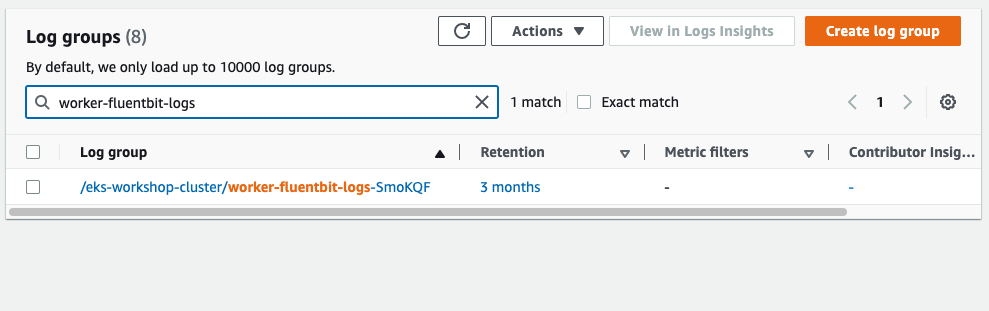
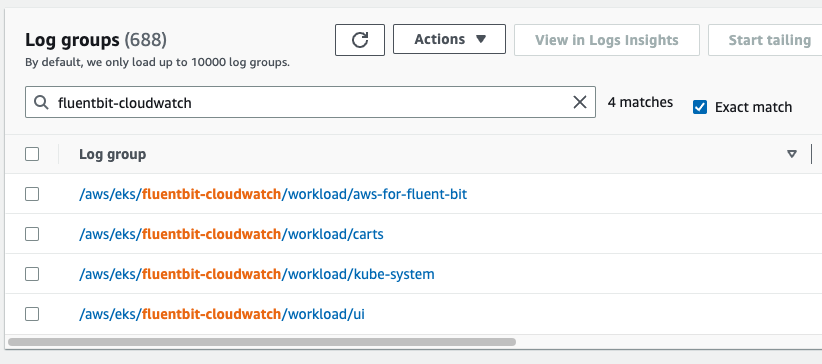
Update log group and log stream instructions for fluent bit lab

diff --git a/website/docs/observability/logging/pod-logging/fluent-bit-cloudwatch.md b/website/docs/observability/logging/pod-logging/fluent-bit-cloudwatch.md
@@ -5,38 +5,48 @@ sidebar_position: 40
 
 In this lab exercise, we'll see how to check the Kubernetes pod logs forwarded by the Fluent Bit agent deployed on each node to Amazon CloudWatch Logs. The deployed application components write logs to `stdout`, which are saved in the `/var/log/containers/*.log` path on each node.
 
-First, lets check that our checkout component is creating logs by directly using `kubectl logs`:
+First, lets recycle the pods for the `ui` component to make sure fresh logs are written since we enabled Fluent Bit:
 
 ```bash
-$ kubectl logs -n checkout deployment/checkout 
-[Nest] 1  - 11/23/2022, 12:00:14 AM     LOG [NestFactory] Starting Nest application...
-[Nest] 1  - 11/23/2022, 12:00:15 AM     LOG [InstanceLoader] PrometheusModule dependencies initialized +123ms
-[Nest] 1  - 11/23/2022, 12:00:15 AM     LOG [InstanceLoader] ConfigHostModule dependencies initialized +0ms
-[Nest] 1  - 11/23/2022, 12:00:15 AM     LOG [InstanceLoader] TerminusModule dependencies initialized +1ms
-[Nest] 1  - 11/23/2022, 12:00:15 AM     LOG [InstanceLoader] AppModule dependencies initialized +1ms
-[Nest] 1  - 11/23/2022, 12:00:15 AM     LOG [InstanceLoader] ConfigModule dependencies initialized +1ms
-[Nest] 1  - 11/23/2022, 12:00:15 AM     LOG [InstanceLoader] ConfigModule dependencies initialized +0ms
-[Nest] 1  - 11/23/2022, 12:00:15 AM     LOG [InstanceLoader] CheckoutModule dependencies initialized +3ms
-[Nest] 1  - 11/23/2022, 12:00:15 AM     LOG [RoutesResolver] AppController {/}: +423ms
-[Nest] 1  - 11/23/2022, 12:00:15 AM     LOG [RouterExplorer] Mapped {/health, GET} route +3ms
-[Nest] 1  - 11/23/2022, 12:00:15 AM     LOG [RoutesResolver] PrometheusController {/metrics}: +1ms
-[Nest] 1  - 11/23/2022, 12:00:15 AM     LOG [RouterExplorer] Mapped {/metrics, GET} route +1ms
-[Nest] 1  - 11/23/2022, 12:00:15 AM     LOG [RoutesResolver] CheckoutController {/checkout}: +1ms
-[Nest] 1  - 11/23/2022, 12:00:15 AM     LOG [RouterExplorer] Mapped {/checkout/:customerId, GET} route +1ms
-[Nest] 1  - 11/23/2022, 12:00:15 AM     LOG [RouterExplorer] Mapped {/checkout/:customerId/update, POST} route +1ms
-[Nest] 1  - 11/23/2022, 12:00:15 AM     LOG [RouterExplorer] Mapped {/checkout/:customerId/submit, POST} route +1ms
-[Nest] 1  - 11/23/2022, 12:00:15 AM     LOG [NestApplication] Nest application successfully started +3ms
+$ kubectl delete pod -n ui --all
+$ kubectl rollout status deployment/ui \
+  -n ui --timeout 30s
+deployment "ui" successfully rolled out
+```
+
+Now we can check that our `ui` component is creating logs by directly using `kubectl logs`:
+
+```bash
+$ kubectl logs -n ui deployment/ui 
+Picked up JAVA_TOOL_OPTIONS: -javaagent:/opt/aws-opentelemetry-agent.jar
+OpenJDK 64-Bit Server VM warning: Sharing is only supported for boot loader classes because bootstrap classpath has been appended
+[otel.javaagent 2023-07-03 23:39:18:499 +0000] [main] INFO io.opentelemetry.javaagent.tooling.VersionLogger - opentelemetry-javaagent - version: 1.24.0-aws
+
+  .   ____          _            __ _ _
+ /\\ / ___'_ __ _ _(_)_ __  __ _ \ \ \ \
+( ( )\___ | '_ | '_| | '_ \/ _` | \ \ \ \
+ \\/  ___)| |_)| | | | | || (_| |  ) ) ) )
+  '  |____| .__|_| |_|_| |_\__, | / / / /
+ =========|_|==============|___/=/_/_/_/
+ :: Spring Boot ::                (v3.0.6)
+
+2023-07-03T23:39:20.472Z  INFO 1 --- [           main] c.a.s.u.UiApplication                    : Starting UiApplication v0.0.1-SNAPSHOT using Java 17.0.7 with PID 1 (/app/app.jar started by appuser in /app)
+2023-07-03T23:39:20.488Z  INFO 1 --- [           main] c.a.s.u.UiApplication                    : No active profile set, falling back to 1 default profile: "default"
+2023-07-03T23:39:24.985Z  WARN 1 --- [           main] o.s.b.a.e.EndpointId                     : Endpoint ID 'fail-cart' contains invalid characters, please migrate to a valid format.
+2023-07-03T23:39:25.132Z  INFO 1 --- [           main] o.s.b.a.e.w.EndpointLinksResolver        : Exposing 15 endpoint(s) beneath base path '/actuator'
+2023-07-03T23:39:25.567Z  INFO 1 --- [           main] o.s.b.w.e.n.NettyWebServer               : Netty started on port 8080
+2023-07-03T23:39:25.599Z  INFO 1 --- [           main] c.a.s.u.UiApplication                    : Started UiApplication in 5.877 seconds (process running for 7.361)
 ```
 
 Open the CloudWatch Logs console to check these logs are appearing:
 
 https://console.aws.amazon.com/cloudwatch/home?#logsV2:log-groups
 
-Filter for **worker-fluentbit-logs** to find the log group and select it:
+Filter for **fluentbit-cloudwatch** to find the log groups created by Fluent Bit:
 
 ![CWLogGroup](./assets/log-group.png)
 
-Filter for **checkout** to check the logs streams and select one:
+Select `/aws/eks/fluentbit-cloudwatch/workload/ui` to view the log streams, each one corresponds to an individual pod:
 
 ![CWLogStreams](./assets/log-streams.png)
 
